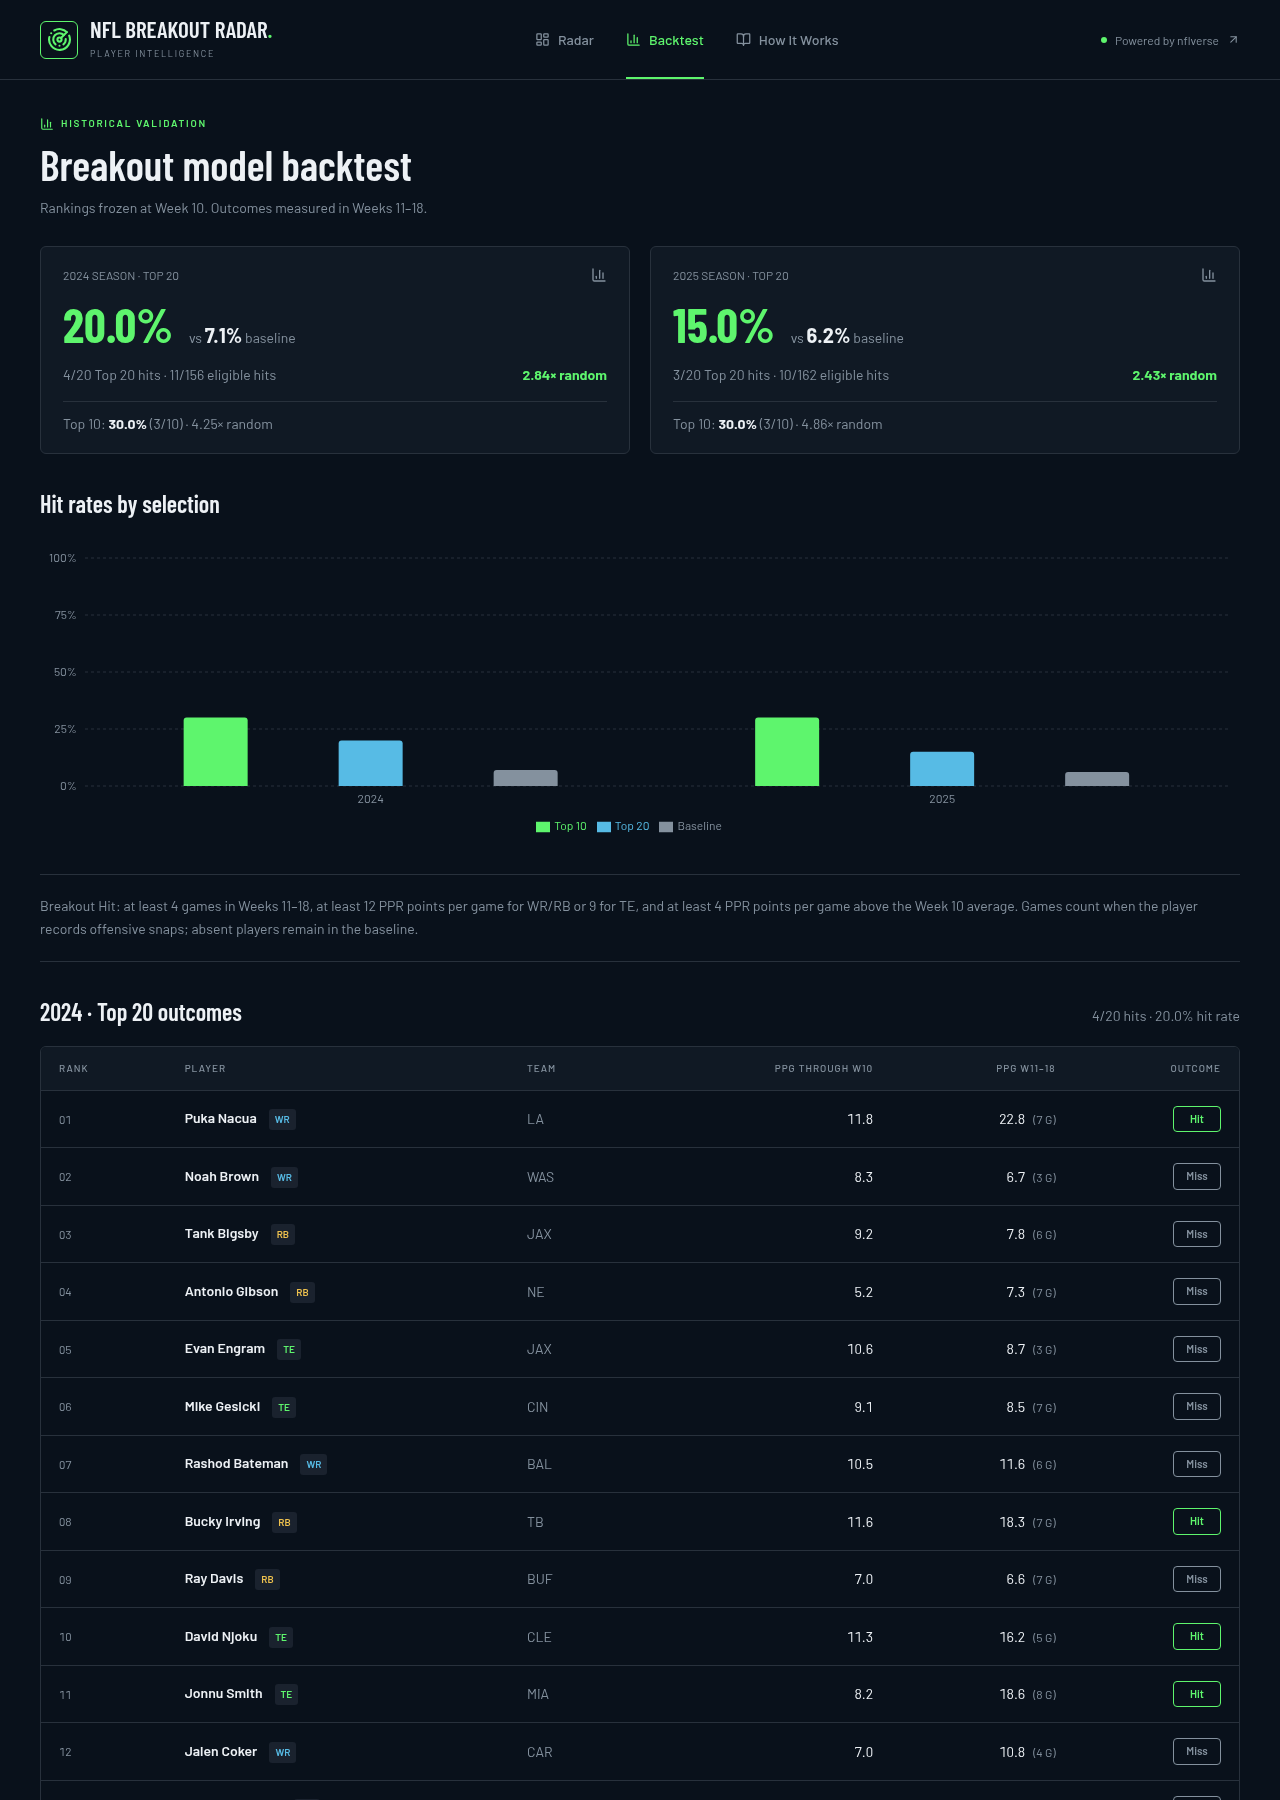
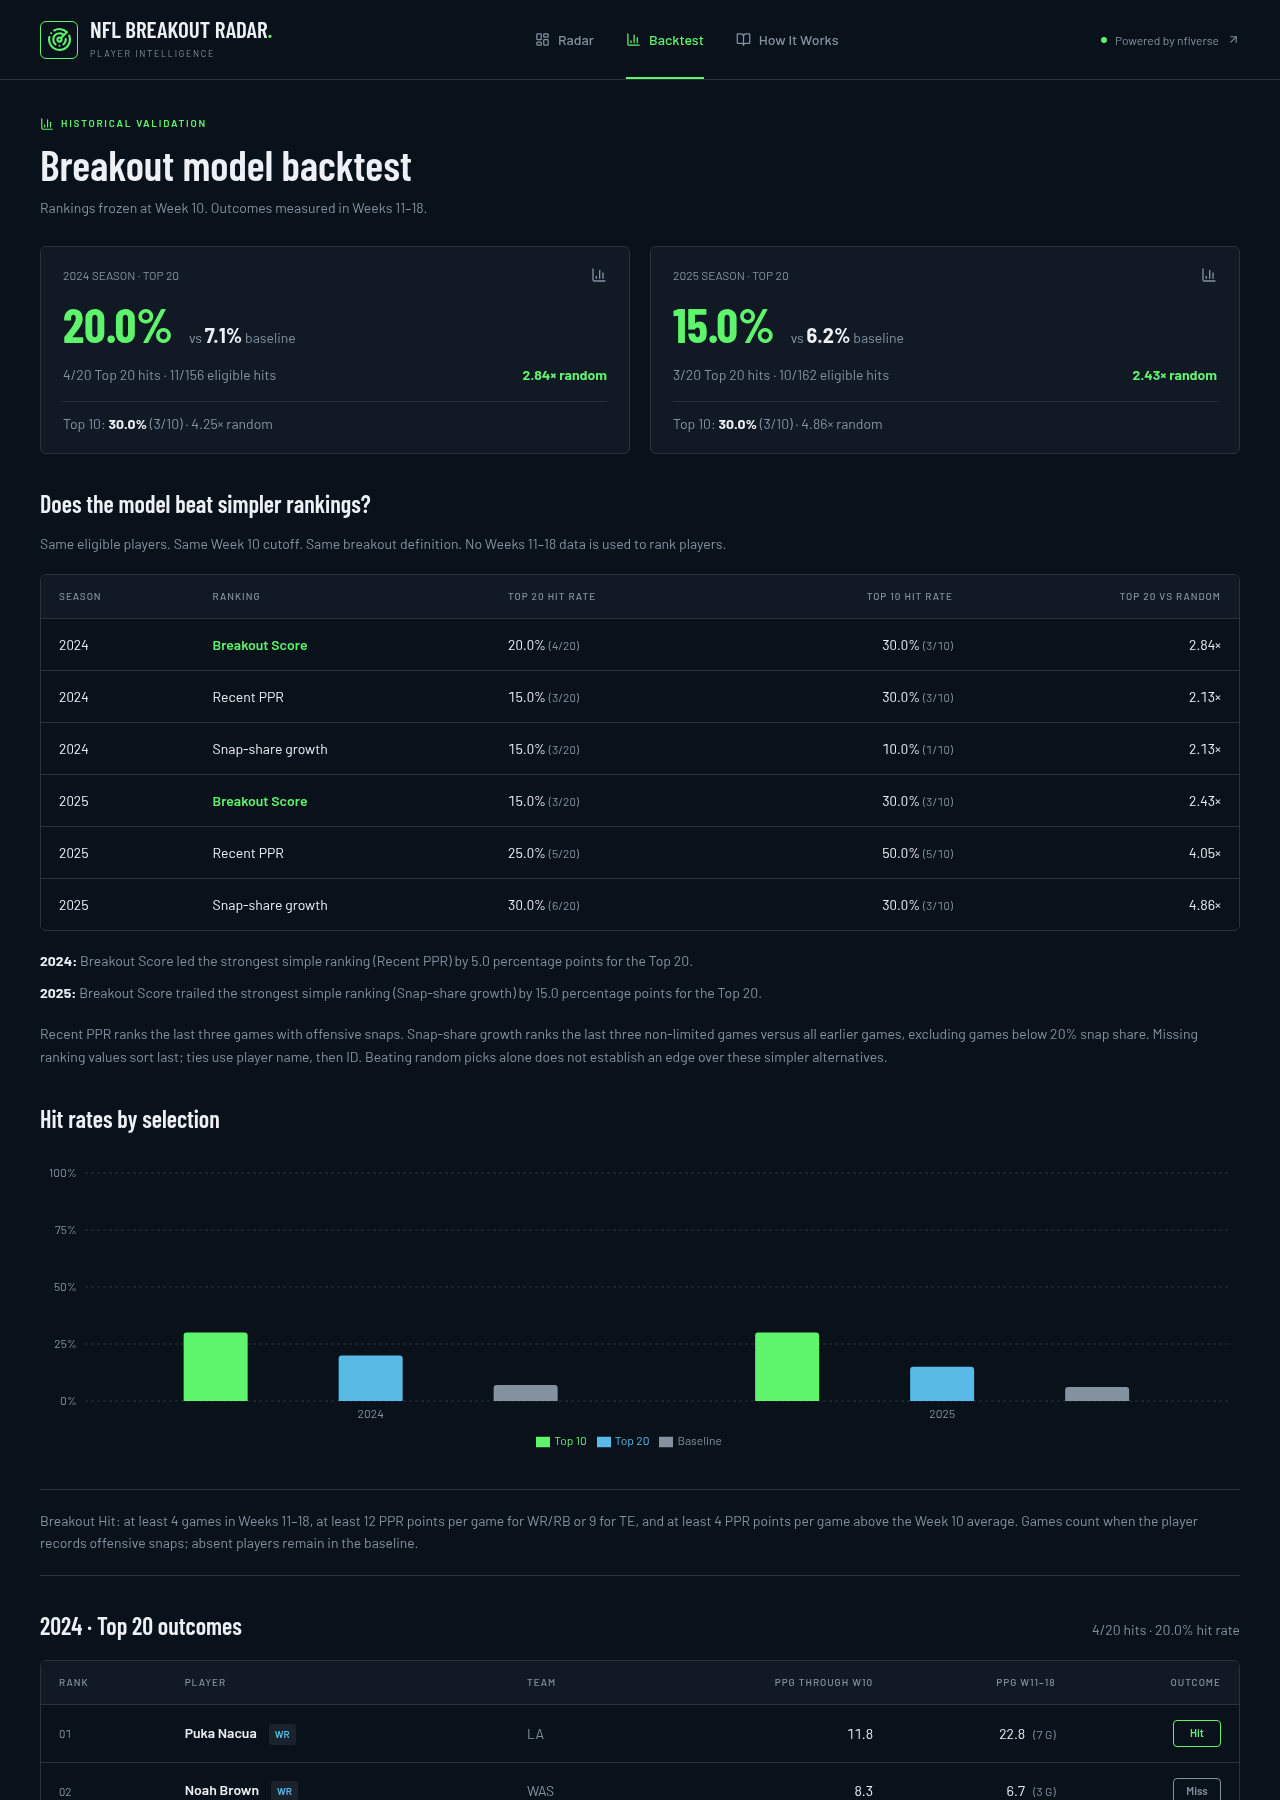
Compare breakout backtests against cutoff-only PPR and snap-growth benchmarks

diff --git a/src/routes/backtest.tsx b/src/routes/backtest.tsx
@@ -31,6 +31,16 @@ function BacktestPage() {
       <div className="flex flex-wrap justify-between gap-3 text-sm"><span className="text-muted-foreground">{s.top20.hits}/{s.top20.total} Top 20 hits · {s.baseline.hits}/{s.baseline.total} eligible hits</span><strong className="text-primary">{s.baseline.rate && s.top20.rate !== null ? `${(s.top20.rate/s.baseline.rate).toFixed(2)}× random` : 'Lift unavailable'}</strong></div>
       <div className="mt-4 pt-3 border-t border-border text-sm text-muted-foreground">Top 10: <strong className="text-foreground">{percent(s.top10.rate)}</strong> ({s.top10.hits}/{s.top10.total}) · {s.lift === null ? 'lift unavailable' : `${s.lift.toFixed(2)}× random`}</div>
     </div>)}</div>
+    <section className="backtest-section"><h2 className="section-heading">Does the model beat simpler rankings?</h2><p className="text-muted-foreground text-sm mt-3 mb-5">Same eligible players. Same Week 10 cutoff. Same breakout definition. No Weeks 11–18 data is used to rank players.</p>
+      <div className="table-wrap"><table className="radar-table"><thead><tr><th>Season</th><th>Ranking</th><th>Top 20 hit rate</th><th>Top 10 hit rate</th><th>Top 20 vs random</th></tr></thead><tbody>{seasons.flatMap(s=>s.benchmarks.map(b=><tr key={`${s.season}-${b.id}`}><td>{s.season}</td><td className={b.id==='model'?'text-primary font-semibold':'text-foreground'}>{b.label}</td><td>{percent(b.top20.rate)} <span className="text-muted-foreground text-xs">({b.top20.hits}/{b.top20.total})</span></td><td>{percent(b.top10.rate)} <span className="text-muted-foreground text-xs">({b.top10.hits}/{b.top10.total})</span></td><td>{s.baseline.rate && b.top20.rate !== null ? `${(b.top20.rate/s.baseline.rate).toFixed(2)}×` : '—'}</td></tr>))}</tbody></table></div>
+      <div className="mt-5 space-y-3">{seasons.map(s=>{
+        const alternatives=s.benchmarks.filter(b=>b.id!=='model' && b.top20.rate!==null);
+        const best=alternatives.reduce<typeof alternatives[number]|undefined>((leader,b)=>!leader || (b.top20.rate ?? 0)>(leader.top20.rate ?? 0)?b:leader,undefined);
+        const delta=s.top20.rate!==null && best?.top20.rate!==null && best?.top20.rate!==undefined?(s.top20.rate-best.top20.rate)*100:null;
+        return <p key={s.season} className="text-sm text-muted-foreground"><strong className="text-foreground">{s.season}: </strong>{delta===null?'Not enough data to compare.':delta>0?`Breakout Score led the strongest simple ranking (${best?.label}) by ${delta.toFixed(1)} percentage points for the Top 20.`:delta<0?`Breakout Score trailed the strongest simple ranking (${best?.label}) by ${Math.abs(delta).toFixed(1)} percentage points for the Top 20.`:`Breakout Score tied the strongest simple ranking (${best?.label}) for the Top 20.`}</p>;
+      })}</div>
+      <p className="text-muted-foreground text-sm mt-5 leading-relaxed">Recent PPR ranks the last three games with offensive snaps. Snap-share growth ranks the last three non-limited games versus all earlier games, excluding games below 20% snap share. Missing ranking values sort last; ties use player name, then ID. Beating random picks alone does not establish an edge over these simpler alternatives.</p>
+    </section>
     <section className="backtest-section"><h2 className="section-heading">Hit rates by selection</h2><BacktestChart seasons={seasons}/></section>
     <p className="text-muted-foreground text-sm leading-relaxed border-y border-border py-5">Breakout Hit: at least 4 games in Weeks 11–18, at least 12 PPR points per game for WR/RB or 9 for TE, and at least 4 PPR points per game above the Week 10 average. Games count when the player records offensive snaps; absent players remain in the baseline.</p>
     {seasons.map(s=><section key={s.season} className="backtest-section">

diff --git a/src/lib/backtest.test.ts b/src/lib/backtest.test.ts
@@ -48,4 +48,35 @@ describe('historical breakout rules', () => {
   it('does not claim a lift when the baseline has no hits', () => {
     expect(evaluateBacktest(computeBreakoutScores([1,2,3,10].map(w=>row('a',w)),2024,10),[],2024).lift).toBeNull();
   });
+  it('ranks recent PPR by the last three offensive games through week 10, not future results', () => {
+    const before = ['a','b'].flatMap(id => [1,2,3,10].map(w=>row(id,w,id==='a' ? (w===1?30:5) : 9)));
+    const scores=computeBreakoutScores(before,2024,10);
+    const after=[11,12,13,14].map(w=>row('a',w,100));
+    const result=evaluateBacktest(scores,[...before,...after,{...row('a',9,999),offense_snaps:0},{...row('a',10,999),season:2025}],2024);
+    expect(result.benchmarks[1]?.playerIds).toEqual(['b','a']);
+    expect(evaluateBacktest(scores,before,2024).benchmarks[1]?.playerIds).toEqual(['b','a']);
+  });
+  it('ranks snap growth using the last three non-limited games versus earlier games', () => {
+    const before=['a','b'].flatMap(id=>[1,2,3,4,10].map(w=>({...row(id,w),offense_pct:w===10?.1:w===1?(id==='a'?.2:.6):.5})));
+    const result=evaluateBacktest(computeBreakoutScores(before,2024,10),before,2024);
+    expect(result.benchmarks[2]?.playerIds).toEqual(['a','b']);
+  });
+  it('keeps identical eligible pools, missing outcomes, and deterministic ties in every benchmark', () => {
+    const before=Array.from({length:25},(_,i)=>[1,2,3,10].map(w=>row(`p${String(i).padStart(2,'0')}`,w))).flat();
+    const scores=computeBreakoutScores(before,2024,10);
+    const after=scores.slice(0,5).flatMap(p=>[11,12,13,14].map(w=>row(p.player_id,w,12)));
+    const result=evaluateBacktest(scores,[...before,...after,...[1,2,3,10].map(w=>row('ineligible',w,100))],2024);
+    for (const benchmark of result.benchmarks) {
+      expect(benchmark.top10).toEqual({hits:5,total:10,rate:.5});
+      expect(benchmark.top20).toEqual({hits:5,total:20,rate:.25});
+      expect(benchmark.playerIds).toEqual(scores.slice(0,20).map(p=>p.player_id));
+    }
+  });
+  it('places missing benchmark metrics last and returns null rates for empty cohorts', () => {
+    const before=['a','b'].flatMap(id=>[1,2,3,10].map(w=>row(id,w)));
+    const scores=computeBreakoutScores(before,2024,10);
+    const result=evaluateBacktest(scores,before.filter(w=>w.player_id==='b'),2024);
+    expect(result.benchmarks[1]?.playerIds).toEqual(['b','a']);
+    expect(evaluateBacktest([],[],2024).benchmarks.map(b=>b.top20.rate)).toEqual([null,null,null]);
+  });
 });

diff --git a/src/lib/backtest.ts b/src/lib/backtest.ts
@@ -1,4 +1,4 @@
-import type { BreakoutScore } from './breakout-model';
+import { breakoutMetrics, type BreakoutScore } from './breakout-model';
 import type { PlayerWeek } from './nfl-data';
 
 export function breakoutHit(position: string, beforePpg: number, afterPpg: number | null, games: number) {
@@ -16,5 +16,21 @@ export function evaluateBacktest(scores: BreakoutScore[], weeks: PlayerWeek[], s
     return { hits, total: group.length, rate: group.length ? hits / group.length : null };
   };
   const top10 = rate(players.slice(0,10)), top20 = rate(players.slice(0,20)), baseline = rate(players);
-  return { season, top10, top20, baseline, lift: baseline.rate && top10.rate !== null ? top10.rate / baseline.rate : null, players: players.slice(0,20) };
+  // Benchmarks use the saved eligible cohort, never future production to rank it.
+  const metrics = new Map(breakoutMetrics(weeks,season,10).map(p => [p.player_id,p]));
+  const recentPpr = new Map(players.map(p => {
+    const recent = weeks.filter(w => w.season === season && w.player_id === p.player_id && w.week >= 1 && w.week <= 10 && (w.offense_snaps ?? 0) > 0).sort((a,b) => a.week-b.week).slice(-3);
+    return [p.player_id,recent.length ? recent.reduce((sum,w) => sum + (w.fantasy_points_ppr ?? 0),0)/recent.length : null];
+  }));
+  const ranked = (value:(id:string)=>number|null) => [...players].sort((a,b) => {
+    const av=value(a.player_id), bv=value(b.player_id);
+    return (av === null ? (bv === null ? 0 : 1) : bv === null ? -1 : bv-av) || a.player_name.localeCompare(b.player_name) || a.player_id.localeCompare(b.player_id);
+  });
+  const comparison = (id:string, label:string, group:typeof players) => ({id,label,top10:rate(group.slice(0,10)),top20:rate(group.slice(0,20)),playerIds:group.slice(0,20).map(p=>p.player_id)});
+  const benchmarks = [
+    comparison('model','Breakout Score',players),
+    comparison('recent-ppr','Recent PPR',ranked(id=>recentPpr.get(id) ?? null)),
+    comparison('snap-growth','Snap-share growth',ranked(id=>metrics.get(id)?.snapTrend ?? null)),
+  ];
+  return { season, top10, top20, baseline, benchmarks, lift: baseline.rate && top10.rate !== null ? top10.rate / baseline.rate : null, players: players.slice(0,20) };
 }

diff --git a/README.md b/README.md
@@ -52,6 +52,17 @@ Results (vs. picking any eligible player at random):
 
 The baseline retains every eligible player — including those who stopped playing — to avoid survivorship bias. The page states plainly: small sample; injuries, trades and coaching changes can't be predicted from box scores.
 
+### Does it beat simpler rankings?
+
+All methods select from the same saved Week 10 eligible cohort. Recent PPR uses the last three offensive-snap games through Week 10. Snap-share growth uses the model's last-three versus earlier-game trend, excluding games below 20% snap share. Neither ranking uses future outcomes; missing values sort last and ties use player name then ID.
+
+| Season | Breakout Score Top 20 | Recent PPR Top 20 | Snap growth Top 20 |
+| ------ | --------------------- | ----------------- | ------------------ |
+| 2024   | 20.0% (4/20)          | 15.0% (3/20)      | 15.0% (3/20)       |
+| 2025   | 15.0% (3/20)          | 25.0% (5/20)      | 30.0% (6/20)       |
+
+**Honest conclusion:** the model beat both simple alternatives in 2024 but underperformed both in 2025. Beating random alone is not proof of a consistent edge. Two seasons and small Top 20 samples do not establish statistical significance; more historical seasons and an untouched future evaluation are needed before claiming predictive superiority. These comparisons do not change the model or tune it to the observed outcomes.
+
 ## AI features (server-side only)
 
 - **AI Scouting Report** — each player page can generate a short report (why rising / what to watch / verdict) from that player's scores, percentiles and 3-week changes. Reports are cached by a SHA-256 fingerprint of the exact input data, so unchanged data never repeats inference. Invalid AI output is validated and discarded; the page never breaks.
@@ -64,7 +75,7 @@ No API keys in the frontend. All AI calls run in server functions with validated
 - **Stack:** React 19, TanStack Start (SSR + server functions), TanStack Query, Tailwind CSS v4, Lovable Cloud (Postgres with row-level security), Lovable AI Gateway.
 - **Data pipeline:** weekly sync from fixed nflverse URLs with an atomic 5-minute per-season cooldown; CSV parsing, name normalization and joining live in a tested pure module.
 - **Security:** public tables are read-only to anonymous users; all writes go through privileged server-side RPCs with advisory locks. Rate limits and generation claims are enforced atomically in the database.
-- **Testing:** 56 unit tests cover the scoring model, backtest evaluation, filter application, scouting schema and name joining — the deterministic core is fully verified.
+- **Testing:** unit tests cover the scoring model, backtest evaluation, cutoff-only benchmark rankings, filter application, scouting schema and name joining.
 - **Data quality rules:** average tied ranks, neutral missing metrics, injury-shortened game exclusion, full-cohort recomputation for historical comparisons.
 
 ## Running locally

diff --git a/AGENTS.md b/AGENTS.md
@@ -38,7 +38,7 @@ use the editor.
 - Save score batches and computation status in one database transaction; Radar reads only the latest loaded cutoff and detail links preserve that cutoff.
 - Use /player/$playerId as the canonical detail URL and retain /players/$playerId as a redirect so existing links keep working.
 - Scouting AI runs only in a server function using stored cutoff scores, position percentiles, and full-cohort recomputed three-week comparisons; cache validated summaries by a SHA-256 data key with a unique durable claim, including failed attempts, so unchanged data never repeats inference and failures never block the player page.
-- Backtests evaluate saved week-10 scores in a tested pure module against weeks 11–18; count offensive-snap games and retain every eligible player in the baseline to avoid survivorship bias.
+- Backtests evaluate saved week-10 scores and cutoff-only recent-PPR and snap-growth benchmarks in a tested pure module against weeks 11–18, using the identical saved eligible cohort, offensive-snap games, and deterministic name/ID tie-breaking; retain absent players to avoid leakage and survivorship bias.
 - Share route loading, retry, and missing-content states through router defaults and explicit data-route boundaries so navigation remains available during failures.
 - Ask the Radar AI translates questions only; tested pure filters apply stored scores, full-cohort three-week comparisons, and cutoff standings so inference never supplies player data.
 - Persist question claims and private logs by normalized question, season, and week; enforce the approved per-browser rolling-hour limit with a server-issued cookie and atomic database claim to bound repeat inference.

diff --git a/roadmap.md b/roadmap.md
@@ -19,3 +19,5 @@
 - [x] Add weekly question caching, private query logs, and approved custom visitor search limits.
 - [x] Test filtering rules and verify real searches, caching, and mobile layout.
 - [x] Capture Radar, player, and Backtest screenshots and add them to the portfolio README.
+- [x] Add tested, cutoff-only recent PPR and snap-growth benchmarks using the same eligible players.
+- [x] Show benchmark hit rates and honest model comparisons on Backtest; document and verify real results.
